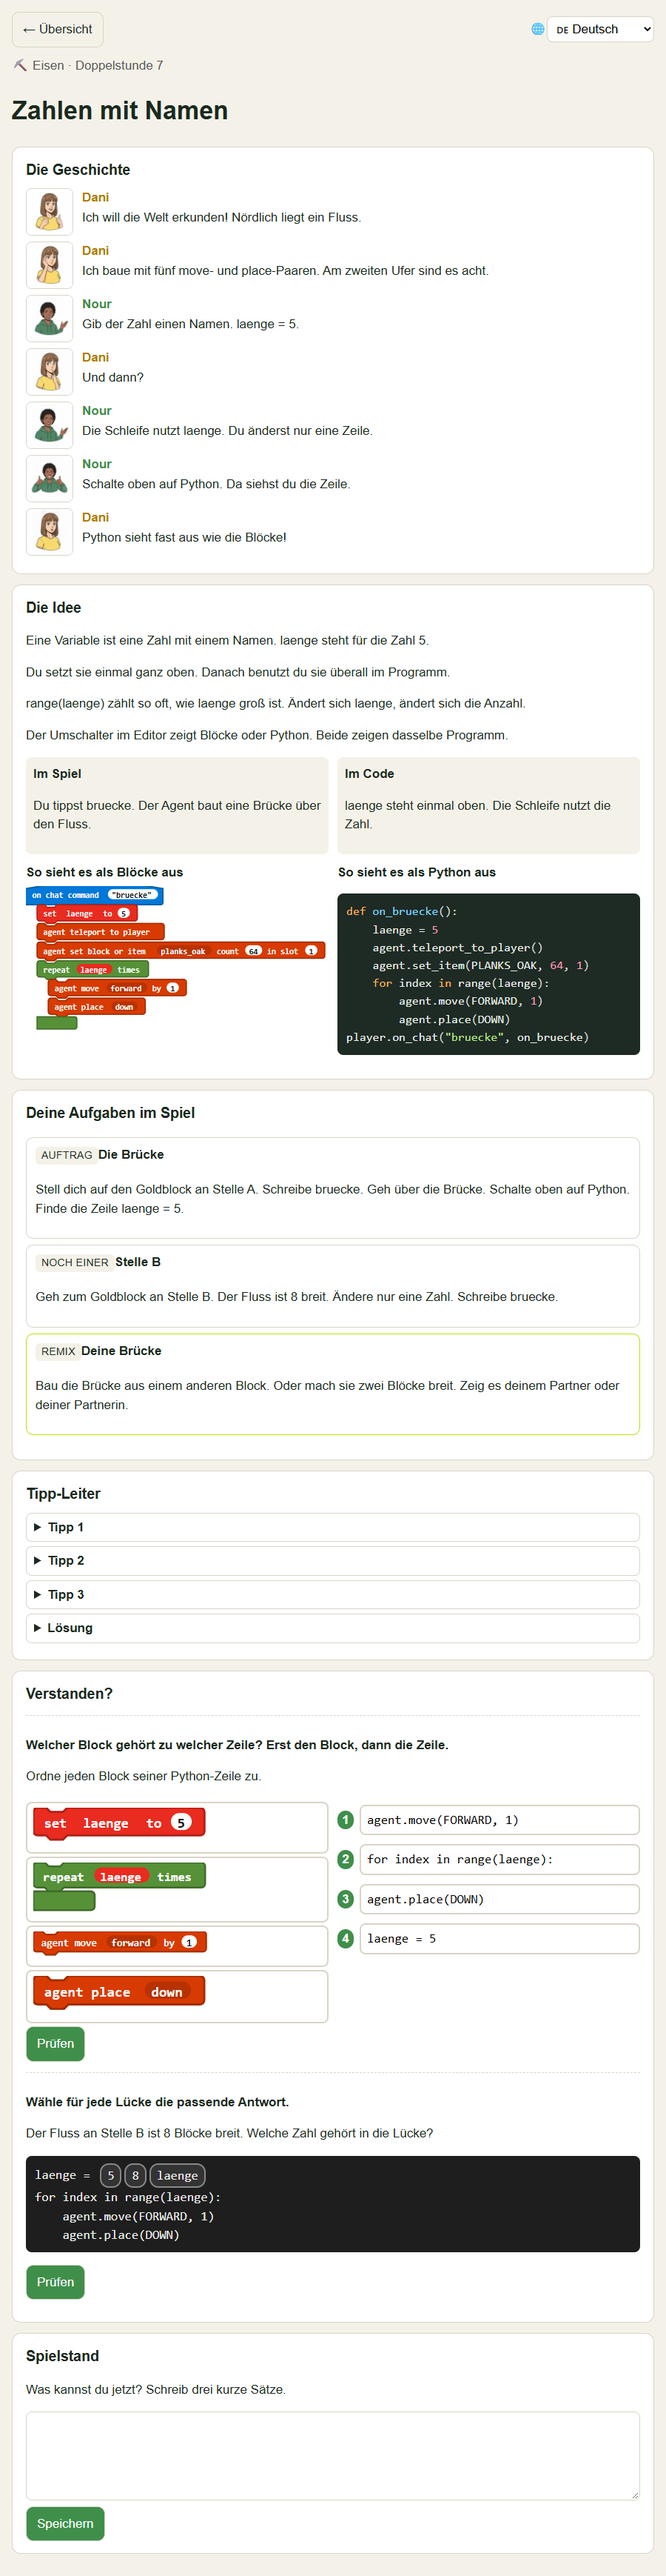
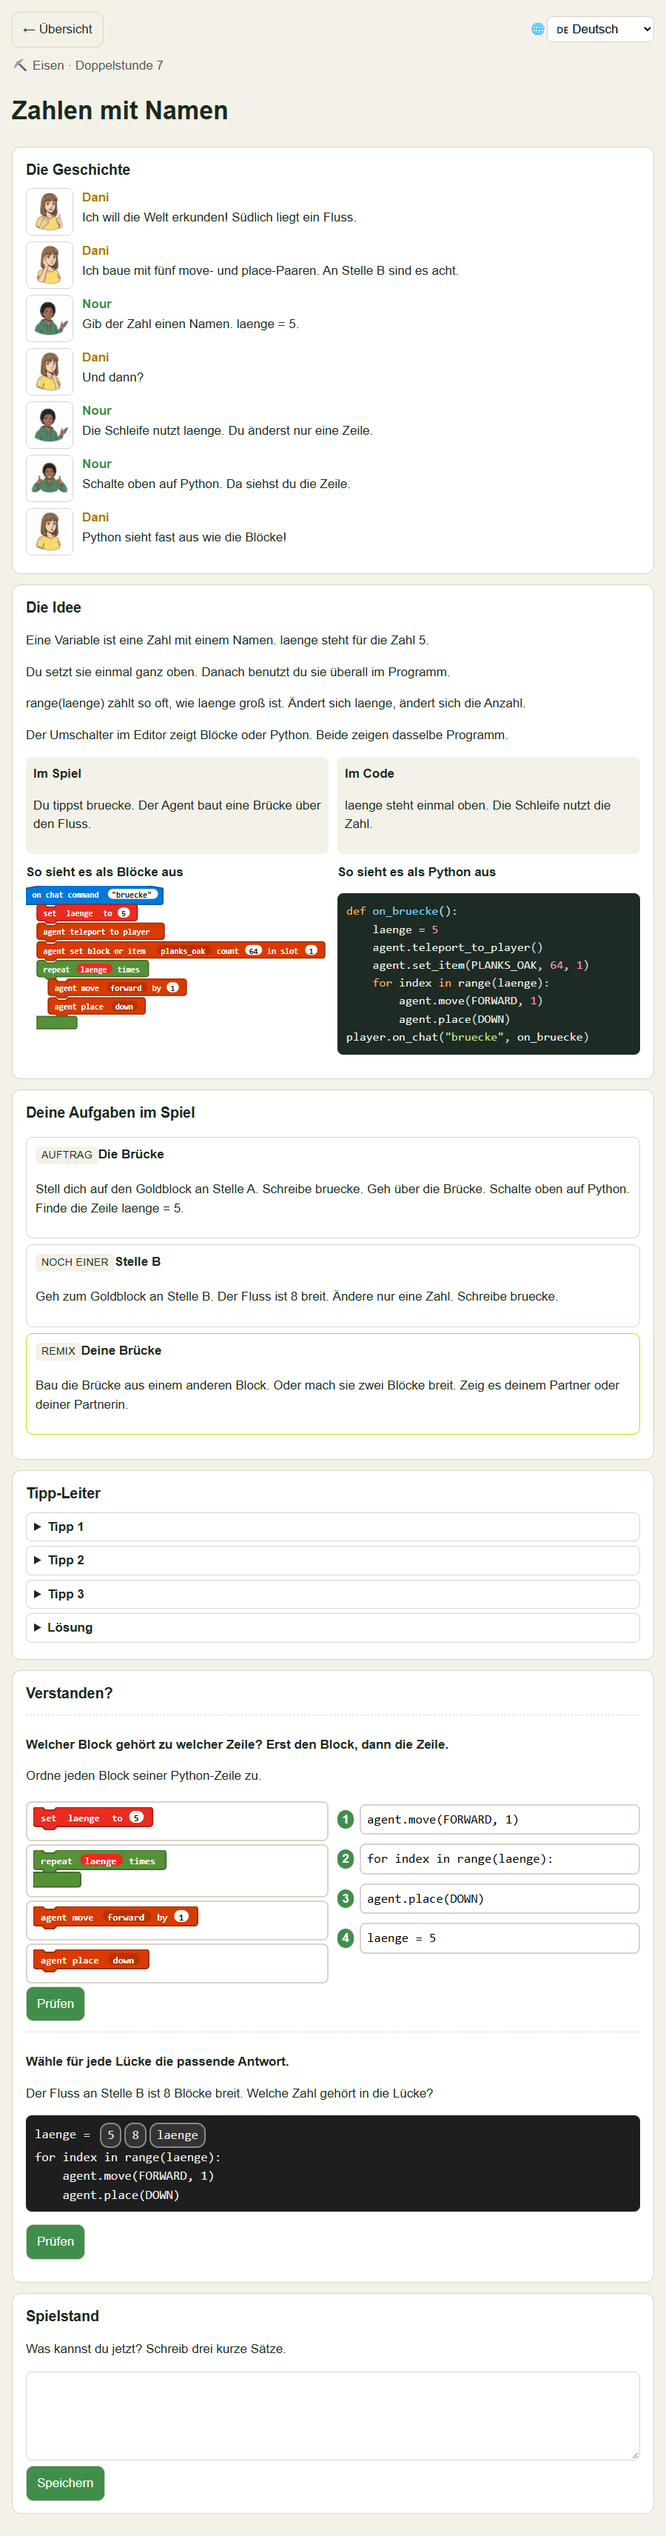
fix(app): readable s08 match blocks, find-the-bug check needs a pick
I3/T4/T11b: match blocks render at natural size and stack the columns
for wide fill blocks (no 750px overflow); FindBug disables Pruefen until
a line is picked; heights re-measured (s07 4650, s08 4850, s09 4500);
overflow cause in comments attributed to s09 main Python.

diff --git a/src/styles.css b/src/styles.css
@@ -43,6 +43,7 @@ p, li, h1, h2, h3, h4, strong {
 .btn-ghost { background: transparent; color: var(--ink); }
 .btn-support { background: var(--support); color: var(--ink); border-color: var(--support-line); }
 .btn-station { width: 100%; text-align: start; margin: 4px 0; }
+.btn:disabled { opacity: 0.5; cursor: not-allowed; }
 .station-list { list-style: none; padding: 0; margin: 0; }
 .crumb { color: #555; margin: 0; }
 .title-support { font-weight: normal; color: #555; }
@@ -55,7 +56,7 @@ p, li, h1, h2, h3, h4, strong {
 .bridge { display: grid; grid-template-columns: 1fr 1fr; gap: 12px; margin: 12px 0; }
 .bridge > div { background: var(--bg); border-radius: 8px; padding: 10px; }
 .side-by-side { display: grid; grid-template-columns: 1fr 1fr; gap: 12px; }
-/* Ohne min-width:0 zwingt eine lange Python-Zeile (z.B. s09-fill mit doppeltem index) die
+/* Ohne min-width:0 zwingt eine lange Python-Zeile (s09-Haupt-Python mit pos(index, index, 3)) die
    Grid-Spur ueber die Kartenbreite hinaus, weil .code pre { overflow-x: auto } den Scrollbalken
    auf einem Nachfahren setzt, nicht auf dem Grid-Item selbst — das Grid-Item bleibt bei
    min-width:auto so breit wie sein Inhalt. Fund Plan 3 Task 11 (Screenshot s09 971px statt 900px,
@@ -97,7 +98,12 @@ summary { cursor: pointer; font-weight: bold; }
 .match-block, .match-line { display: flex; align-items: center; gap: 8px; width: 100%; text-align: left; font: inherit; background: #fff; border: 2px solid var(--line); border-radius: 8px; padding: 6px 8px; margin: 4px 0; cursor: pointer; }
 .match-block.selected { border-color: var(--accent); }
 .match-block.paired, .match-line.paired { border-style: dashed; }
-.match-block .blockview { max-width: 240px; }
+/* Final-Review-Fix I3: frueher max-width 240px auf einem width=100%-SVG. Breite fill-Bloecke (s08,
+   ~500px natuerlich) schrumpften dadurch auf ~7px hohe Pillen. Jetzt natuerliche Groesse
+   (BlockView natural), nur verkleinert, wenn der Platz fehlt; min-width:0, damit das SVG im
+   Flex-Button schrumpfen darf. Breite Bloecke stapeln die Spalten (.match-cols-stacked). */
+.match-block .blockview { flex: 0 1 auto; min-width: 0; }
+.match-cols.match-cols-stacked { grid-template-columns: 1fr; }
 .match-lines { list-style: none; padding: 0; margin: 0; }
 .match-lines li { display: flex; align-items: center; gap: 8px; margin: 4px 0; unicode-bidi: normal; }
 .match-num, .match-badge { display: inline-block; min-width: 22px; text-align: center; border-radius: 11px; background: var(--accent); color: var(--accent-ink); font-weight: bold; }
@@ -115,8 +121,9 @@ summary { cursor: pointer; font-weight: bold; }
 .findbug-line { display: block; width: 100%; text-align: left; font: inherit; background: #fff; border: 2px solid var(--line); border-radius: 8px; padding: 6px 10px; margin: 4px 0; cursor: pointer; }
 .findbug-line.selected { border-color: var(--accent); }
 /* pre-wrap statt pre (Fund Plan 3 Task 11): die Eisen-Fehlersuchzeilen sind laenger als die aus
-   Holz/Stein (z.B. s09 mit doppeltem index-Parameter, ~99 Zeichen) und sprengten bei 750px
-   Iframe-Breite die Buttonbreite -- Seiten-Scroll nach rechts, kein overflow-x wie bei .code pre.
+   Holz/Stein (z.B. s09 mit pos(index, stufen, 3), ~92 Zeichen) und haetten bei 750px
+   Iframe-Breite die Buttonbreite gesprengt -- kein overflow-x wie bei .code pre. Den gemessenen
+   Seiten-Scroll loeste die s09-Hauptzeile im .side-by-side-Grid aus (siehe oben).
    pre-wrap erhaelt die eingerueckten Leerzeichen, bricht aber bei Bedarf an einer Leerstelle um
    (wie .fill-code, das dasselbe Problem schon so loest). */
 .findbug-line code { white-space: pre-wrap; unicode-bidi: normal; direction: ltr; }

diff --git a/src/components/MatchBlocksPython.jsx b/src/components/MatchBlocksPython.jsx
@@ -1,13 +1,18 @@
 import { useState } from 'react';
-import BlockView from './BlockView.jsx';
+import BlockView, { blockViewWidth } from './BlockView.jsx';
 import Support from './Support.jsx';
 import { shuffleDeterministic } from '../lib/parsons.js';
 
 // Zuordnung Block ↔ Python-Zeile. Links die Bloecke in Datenreihenfolge, rechts die Zeilen
 // deterministisch gemischt (gleicher Seed wie Parsons: Snapshot-stabil). Ein Paar entsteht durch
 // Klick auf Block, dann Zeile; eine Zeile gehoert immer nur einem Block.
+// Ab dieser natuerlichen Blockbreite (px) stehen Bloecke und Zeilen untereinander statt
+// nebeneinander: eine halbe Spalte im 750px-Iframe ist rund 330px breit, s08-fill-Bloecke ~500px.
+const WIDE_BLOCK = 300;
+
 export default function MatchBlocksPython({ exercise, prompt, supportPrompt, ui, showSupport, seed = 7 }) {
   const pairs = exercise.pairs;
+  const wide = pairs.some((p) => blockViewWidth([p.block]) > WIDE_BLOCK);
   const [order] = useState(() => shuffleDeterministic(pairs.map((_, i) => i), seed));
   const [selected, setSelected] = useState(null);      // Index des angeklickten Blocks
   const [assign, setAssign] = useState({});            // blockIndex -> lineIndex (Original)
@@ -28,12 +33,12 @@ export default function MatchBlocksPython({ exercise, prompt, supportPrompt, ui,
       <p className="prompt">{ui.matchPrompt}</p>
       <p>{prompt}</p>
       <Support show={showSupport}>{supportPrompt}</Support>
-      <div className="match-cols">
+      <div className={`match-cols${wide ? ' match-cols-stacked' : ''}`} data-stacked={wide ? 'true' : 'false'}>
         <div className="match-blocks">
           {pairs.map((p, i) => (
             <button type="button" key={i} className={`match-block${selected === i ? ' selected' : ''}${assign[i] !== undefined ? ' paired' : ''}`}
               data-testid={`match-block-${i}`} data-paired={assign[i] !== undefined ? String(assign[i]) : ''} onClick={() => pick(i)}>
-              <BlockView blocks={[p.block]} />
+              <BlockView blocks={[p.block]} natural />
               {assign[i] !== undefined && <span className="match-badge">{order.indexOf(assign[i]) + 1}</span>}
             </button>
           ))}

diff --git a/src/data/stations.js b/src/data/stations.js
@@ -15,7 +15,9 @@ export const ETAPPEN = [
 // gerundet (Final-Review-Fix A, Punkt 1 — ersetzt die vorher geschaetzten Werte). Zuletzt
 // nachgemessen nach Task 6 Phase B (Story-Portraits 64px statt 48px: +60 bis +90px je Station).
 // s07-s09 gemessen am 16.09.2026 (Plan 3, Task 11): s01-s06 unveraendert, s07-s09 erstmals
-// mit echten Werten statt dem vorlaeufigen 5200 aus Task 5/6.
+// mit echten Werten statt dem vorlaeufigen 5200 aus Task 5/6. Nachgemessen 16.09.2026 nach dem
+// Final-Review-Fix I3 (Zuordnung in natuerlicher Blockgroesse, s08 gestapelt): s07 4650, s08 4850,
+// s09 4500, s01-s06 unveraendert.
 export const STATIONS = {
   s01: {
     etappe: 'holz',
@@ -308,7 +310,7 @@ player.on_chat("haus", on_haus)`,
   s07: {
     etappe: 'eisen',
     ds: 7,
-    iframeHeight: 4700, // gemessen 16.09.2026
+    iframeHeight: 4650, // gemessen 16.09.2026 (nach Final-Review-Fix I3)
     // Entwurf nach der MakeCode-Python-API; Gegenpruefung im Browser-Editor steht noch aus
     // (Nachtrag Plan 3, Abschnitt 5: place(DOWN) ueber Wasser, Variable im Handler).
     python: `def on_bruecke():
@@ -341,7 +343,7 @@ player.on_chat("bruecke", on_bruecke)`,
   s08: {
     etappe: 'eisen',
     ds: 8,
-    iframeHeight: 4750, // gemessen 16.09.2026
+    iframeHeight: 4850, // gemessen 16.09.2026 (nach Final-Review-Fix I3)
     // Entwurf; Gegenpruefung im Editor: FillOperation.REPLACE in Python, pos() relativ (Fuesse = 0).
     python: `def on_plattform():
     blocks.fill(PLANKS_OAK, pos(0, -1, 1), pos(4, -1, 7), FillOperation.REPLACE)
@@ -365,7 +367,7 @@ player.on_chat("plattform", on_plattform)`,
   s09: {
     etappe: 'eisen',
     ds: 9,
-    iframeHeight: 4500, // gemessen 16.09.2026
+    iframeHeight: 4500, // gemessen 16.09.2026 (nach Final-Review-Fix I3 unveraendert)
     bossCheck: { key: 'boss-eisen', gradeMax: 100 },
     // Entwurf; Gegenpruefung im Editor: zeigt der Block-Editor "for index from 0 to stufen - 1"?
     python: `def on_treppe():

diff --git a/src/components/BlockView.jsx b/src/components/BlockView.jsx
@@ -40,12 +40,23 @@ function shape(row) {
   return `M0,${r} a${r},${r} 0 0 1 ${r},-${r} h8 l4,4 h12 l4,-4 h${w - 32} a${r},${r} 0 0 1 ${r},${r} v${h - 2 * r} a${r},${r} 0 0 1 -${r},${r} h-${w - 32} l-4,4 h-12 l-4,-4 h-8 a${r},${r} 0 0 1 -${r},-${r} z`;
 }
 
-export default function BlockView({ blocks }) {
+// Natuerliche Breite der Zeichnung in SVG-Einheiten (1 Einheit = 1 CSS-Pixel bei natural).
+export function blockViewWidth(blocks) {
+  const { rows } = layout(blocks);
+  if (rows.length === 0) return 0;
+  return Math.max(...rows.map((r) => r.depth * IND + r.w)) + PAD;
+}
+
+// natural: SVG in natuerlicher Groesse statt auf 100 % der Spalte skaliert; CSS
+// (.blockview { max-width: 100% }) verkleinert nur, wenn der Platz nicht reicht. Die Zuordnung
+// (MatchBlocksPython) braucht das: breite fill-Bloecke wurden sonst auf wenige Pixel Schrift
+// gestaucht, schmale Bloecke aufgeblasen.
+export default function BlockView({ blocks, natural = false }) {
   const { rows, y } = layout(blocks);
   if (rows.length === 0) return null;
   const width = Math.max(...rows.map((r) => r.depth * IND + r.w)) + PAD;
   return (
-    <svg className="blockview" viewBox={`0 0 ${width} ${y + 8}`} width="100%" role="img" aria-label="MakeCode-Blöcke" style={{ fontFamily: FONT, fontWeight: 600, fontSize: 13 }}>
+    <svg className="blockview" viewBox={`0 0 ${width} ${y + 8}`} width={natural ? width : '100%'} role="img" aria-label="MakeCode-Blöcke" style={{ fontFamily: FONT, fontWeight: 600, fontSize: 13 }}>
       {rows.map((row, i) => {
         const col = CATEGORY_COLORS[row.spec.cat];
         const x = row.depth * IND;

diff --git a/tests/match-component.test.jsx b/tests/match-component.test.jsx
@@ -44,3 +44,19 @@ test('eine Zeile kann nur einem Block gehoeren: neue Zuordnung loest die alte', 
   expect(screen.getByTestId('match-block-0').getAttribute('data-paired')).toBe('');
   expect(screen.getByTestId('match-block-1').getAttribute('data-paired')).toBe('2');
 });
+
+test('breite fill-Bloecke: Spalten gestapelt, SVG in natuerlicher Breite statt 100 %', () => {
+  const wideEx = { type: 'match', pairs: [
+    { block: { kind: 'fill', block: 'planks_oak', from: { pos: [0, -1, 1] }, to: { pos: [4, -1, 7] }, op: 'replace' }, python: 'blocks.fill(PLANKS_OAK, pos(0, -1, 1), pos(4, -1, 7), FillOperation.REPLACE)' },
+    { block: { kind: 'fill', block: 'stone', from: { pos: [0, -1, 1] }, to: { pos: [4, -1, 7] }, op: 'replace' }, python: 'blocks.fill(STONE, pos(0, -1, 1), pos(4, -1, 7), FillOperation.REPLACE)' },
+  ] };
+  const { container } = render(<MatchBlocksPython exercise={wideEx} prompt="Ordne zu." ui={ui} showSupport={false} seed={7} />);
+  expect(container.querySelector('.match-cols').getAttribute('data-stacked')).toBe('true');
+  const w = container.querySelector('.match-block svg').getAttribute('width');
+  expect(Number(w)).toBeGreaterThan(300);
+});
+
+test('schmale Bloecke (s07): Spalten nebeneinander', () => {
+  const { container } = setup();
+  expect(container.querySelector('.match-cols').getAttribute('data-stacked')).toBe('false');
+});

diff --git a/src/components/FindBug.jsx b/src/components/FindBug.jsx
@@ -22,7 +22,8 @@ export default function FindBug({ exercise, prompt, supportPrompt, explain, supp
           </li>
         ))}
       </ol>
-      <button type="button" className="btn" data-testid="findbug-check" onClick={check}>{ui.checkButton}</button>
+      {/* Ohne gewaehlte Zeile gaebe "Pruefen" sonst "Nein, diese Zeile ist richtig." aus. */}
+      <button type="button" className="btn" data-testid="findbug-check" onClick={check} disabled={picked === null}>{ui.checkButton}</button>
       {result !== null && <p className={result ? 'ok' : 'nope'} role="status">{result ? ui.findbugRight : ui.findbugWrong}</p>}
       {result === true && explain && <p className="explain" data-testid="findbug-explain">{explain}</p>}
       {result === true && <Support show={showSupport}>{supportExplain}</Support>}

diff --git a/tests/findbug-component.test.jsx b/tests/findbug-component.test.jsx
@@ -22,3 +22,13 @@ test('falsche Zeile gewaehlt → findbugRight + Erklaerung; richtige Zeile gewae
   expect(screen.getByRole('status').textContent).toBe('Richtig!');
   expect(screen.getByTestId('findbug-explain').textContent).toBe('stufen statt index.');
 });
+
+test('Pruefen ist gesperrt, bis eine Zeile gewaehlt ist, und zeigt vorher kein Feedback', () => {
+  render(<FindBug exercise={exercise} prompt="Finde den Fehler." explain="stufen statt index." ui={ui} showSupport={false} />);
+  const btn = screen.getByTestId('findbug-check');
+  expect(btn).toBeDisabled();
+  fireEvent.click(btn);
+  expect(screen.queryByRole('status')).toBeNull();
+  fireEvent.click(screen.getByTestId('findbug-line-0'));
+  expect(btn).not.toBeDisabled();
+});
